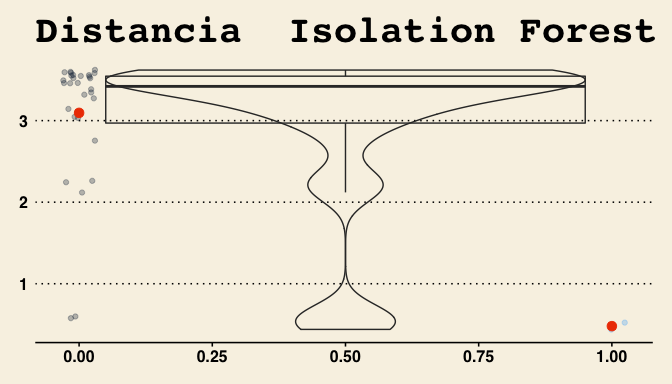
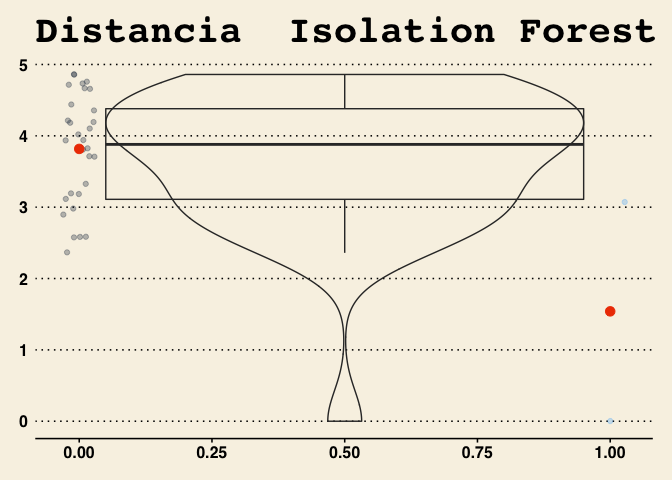
Cambios

diff --git a/Data-screencasts/hbcu_fundations.md b/Data-screencasts/hbcu_fundations.md
@@ -381,7 +381,7 @@ h2o.init(ip = "localhost",
     ##  Connection successful!
     ## 
     ## R is connected to the H2O cluster: 
-    ##     H2O cluster uptime:         1 hours 26 minutes 
+    ##     H2O cluster uptime:         1 hours 31 minutes 
     ##     H2O cluster timezone:       America/Bogota 
     ##     H2O data parsing timezone:  UTC 
     ##     H2O cluster version:        3.32.0.1 
@@ -425,9 +425,9 @@ isoforest
     ## Model ID:  isoforest 
     ## Model Summary: 
     ##   number_of_trees number_of_internal_trees model_size_in_bytes min_depth
-    ## 1              50                       50                8940         3
+    ## 1              50                       50                9136         3
     ##   max_depth mean_depth min_leaves max_leaves mean_leaves
-    ## 1         8    5.56000          5         16     9.60000
+    ## 1         9    6.30000          5         16     9.96000
     ## 
     ## 
     ## H2OAnomalyDetectionMetrics: isolationforest
@@ -446,12 +446,12 @@ head(predicciones)
 ```
 
     ##     predict mean_length
-    ## 1 1.0000000        0.44
-    ## 2 0.1823899        3.04
-    ## 3 0.9748428        0.52
-    ## 4 0.9559748        0.58
-    ## 5 0.9496855        0.60
-    ## 6 0.1823899        3.04
+    ## 1 1.0000000        0.00
+    ## 2 0.3415638        3.20
+    ## 3 0.3456790        3.18
+    ## 4 0.4032922        2.90
+    ## 5 0.4691358        2.58
+    ## 6 0.3168724        3.32
 
 ``` r
 predicciones%>%
